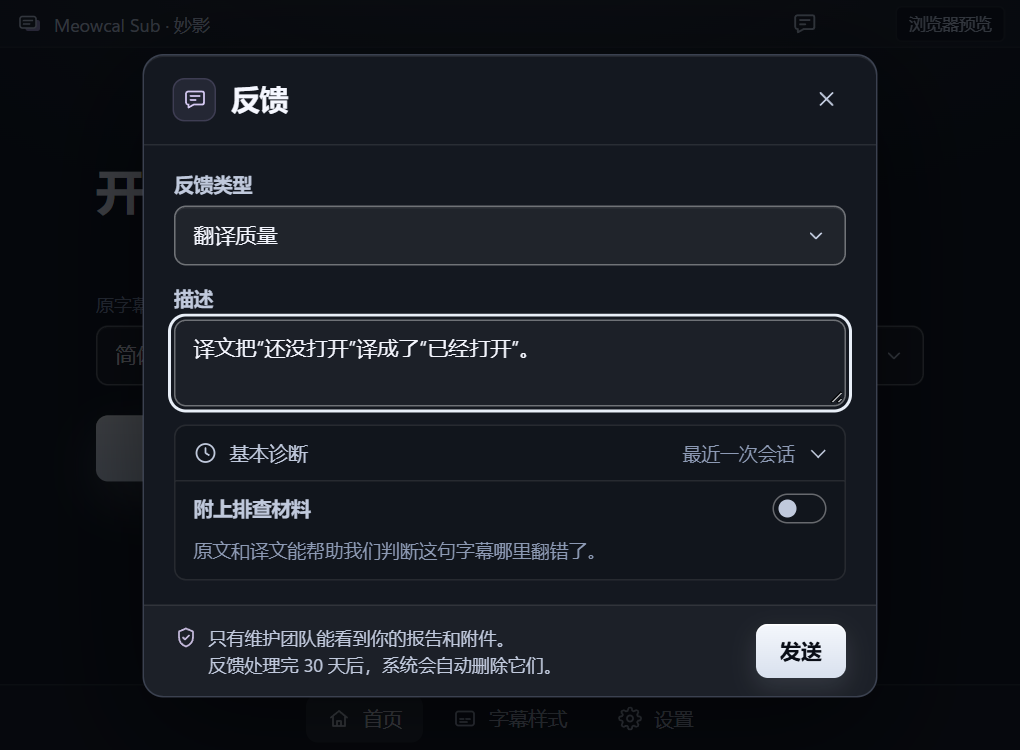
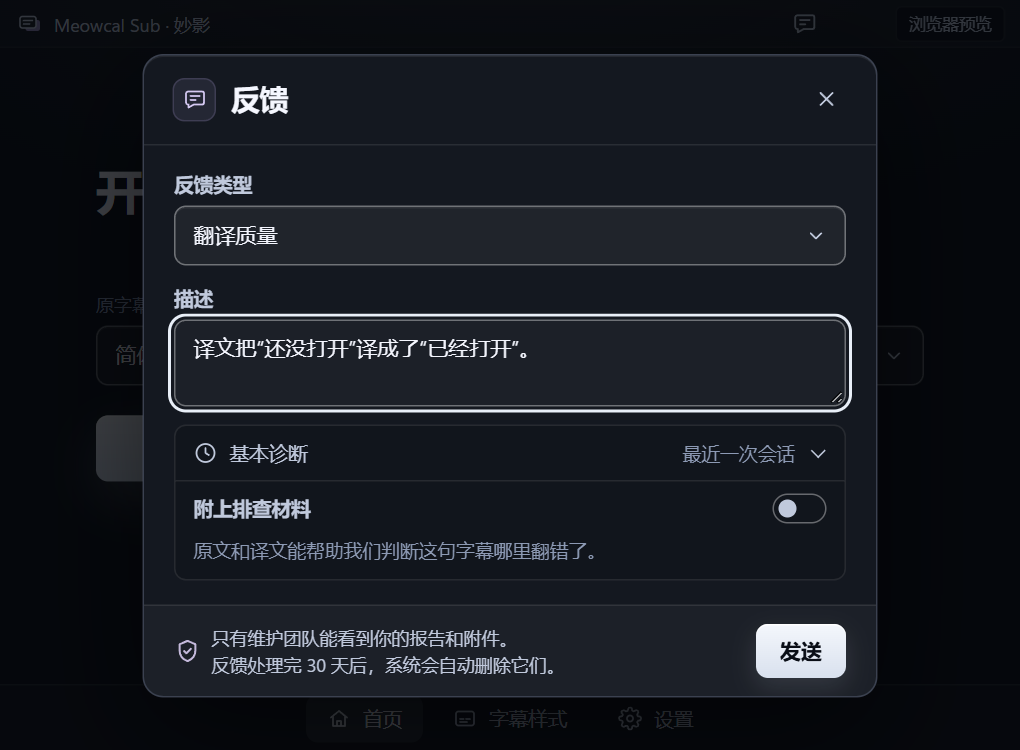
style(feedback): center the shield beside the privacy notice (#340)

Changed region(s): [[0.1824, 0.828, 0.5471, 0.92]]

diff --git a/src/styles/feedback.css b/src/styles/feedback.css
@@ -216,13 +216,14 @@ body:has(#browser-mode-indicator) .feedback-entry {
 .feedback-footer-row p {
   display: flex;
   gap: 7px;
-  align-items: flex-start;
+  align-items: center;
   color: var(--text-2);
   font-size: var(--type-label);
   line-height: 1.5;
 }
 .feedback-footer-row p .icon {
-  margin-top: 1px;
+  width: 18px;
+  height: 18px;
   color: #c4b9db;
 }
 .feedback-error-text {
